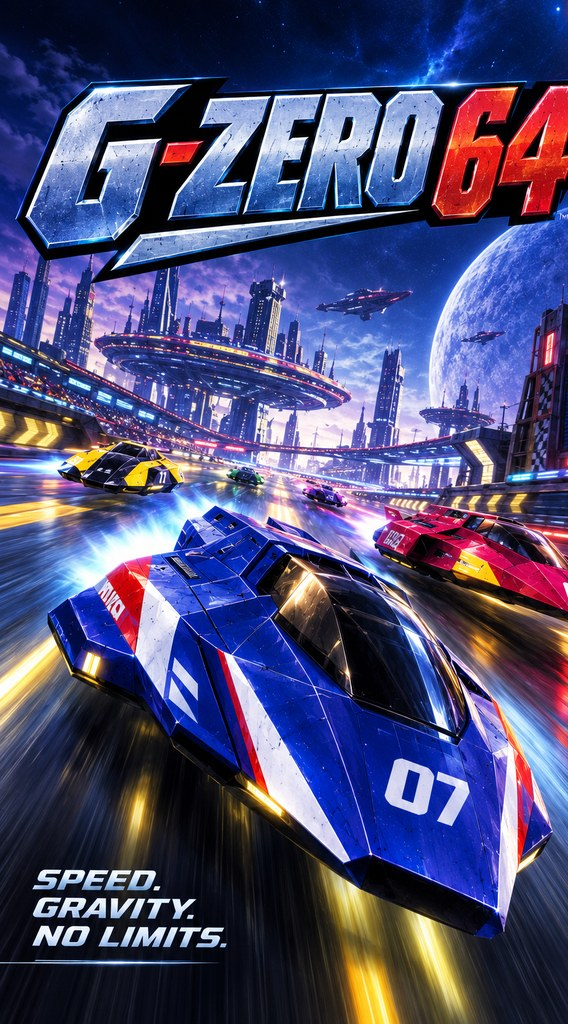
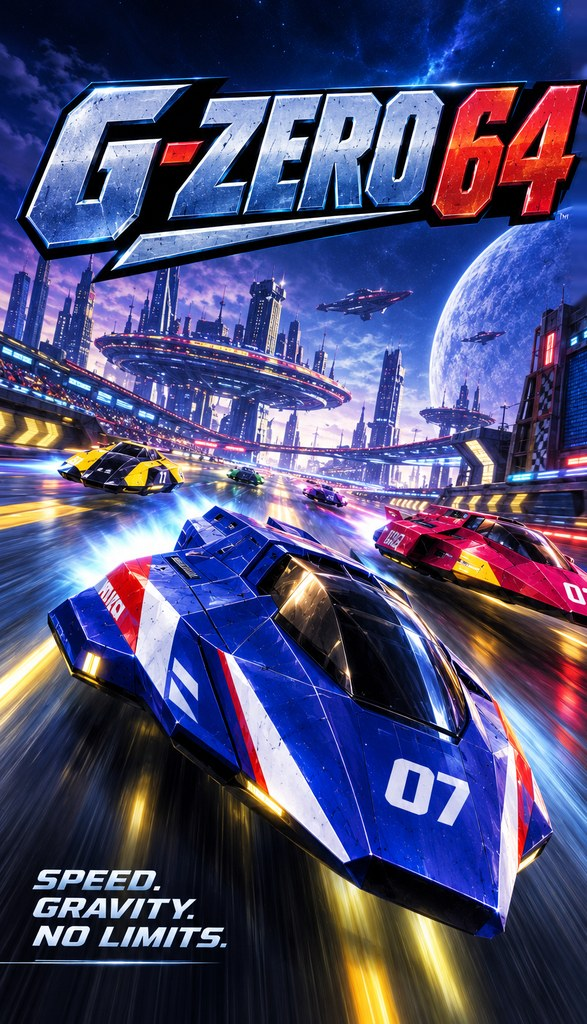
Cover: show the full 64 lettering, painting the badge strip over with sky
Claude-Session: https://claude.ai/code/session_018qXXmjkf8SC4CFb2Qzqv2v

diff --git a/android/tools/make_art.py b/android/tools/make_art.py
@@ -3,7 +3,8 @@
     python3 android/tools/make_art.py
 
 cover-source.png is the cover already cropped clear of its badge strip and rating box, which carry
-third-party marks and must not come back.
+third-party marks and must not come back; where the lettering overlapped the strip, the strip was
+painted over with sky.
 """
 import os
 from PIL import Image, ImageDraw, ImageFilter
@@ -13,8 +14,8 @@ ART = os.path.join(HERE, "..", "art")
 RES = os.path.join(HERE, "..", "app", "src", "main", "res")
 DOCS = os.path.join(HERE, "..", "..", "docs", "branding")
 
-COVER_WIDTH = 852            # width of the cropped cover
-LOGO_BOX = (15, 95, 852, 425)  # the G-ZERO 64 lettering on the cover
+COVER_WIDTH = 880            # width of the cropped cover
+LOGO_BOX = (15, 95, 880, 425)  # the G-ZERO 64 lettering on the cover
 ICON_BOX = (40, 40, 1214, 1214)  # inside the black margin of icon-source.png
 
 
@@ -41,7 +42,7 @@ def cover():
 
 def readme_images(art, icon):
     os.makedirs(DOCS, exist_ok=True)
-    portrait = art.resize((568, 1024), Image.LANCZOS)
+    portrait = art.resize((587, 1024), Image.LANCZOS)
     portrait.save(os.path.join(DOCS, "gzero64-cover.jpg"), quality=88)
     icon.resize((192, 192), Image.LANCZOS).save(os.path.join(DOCS, "gzero64-icon.png"))
     for old in ("gzero64-banner.png",):
